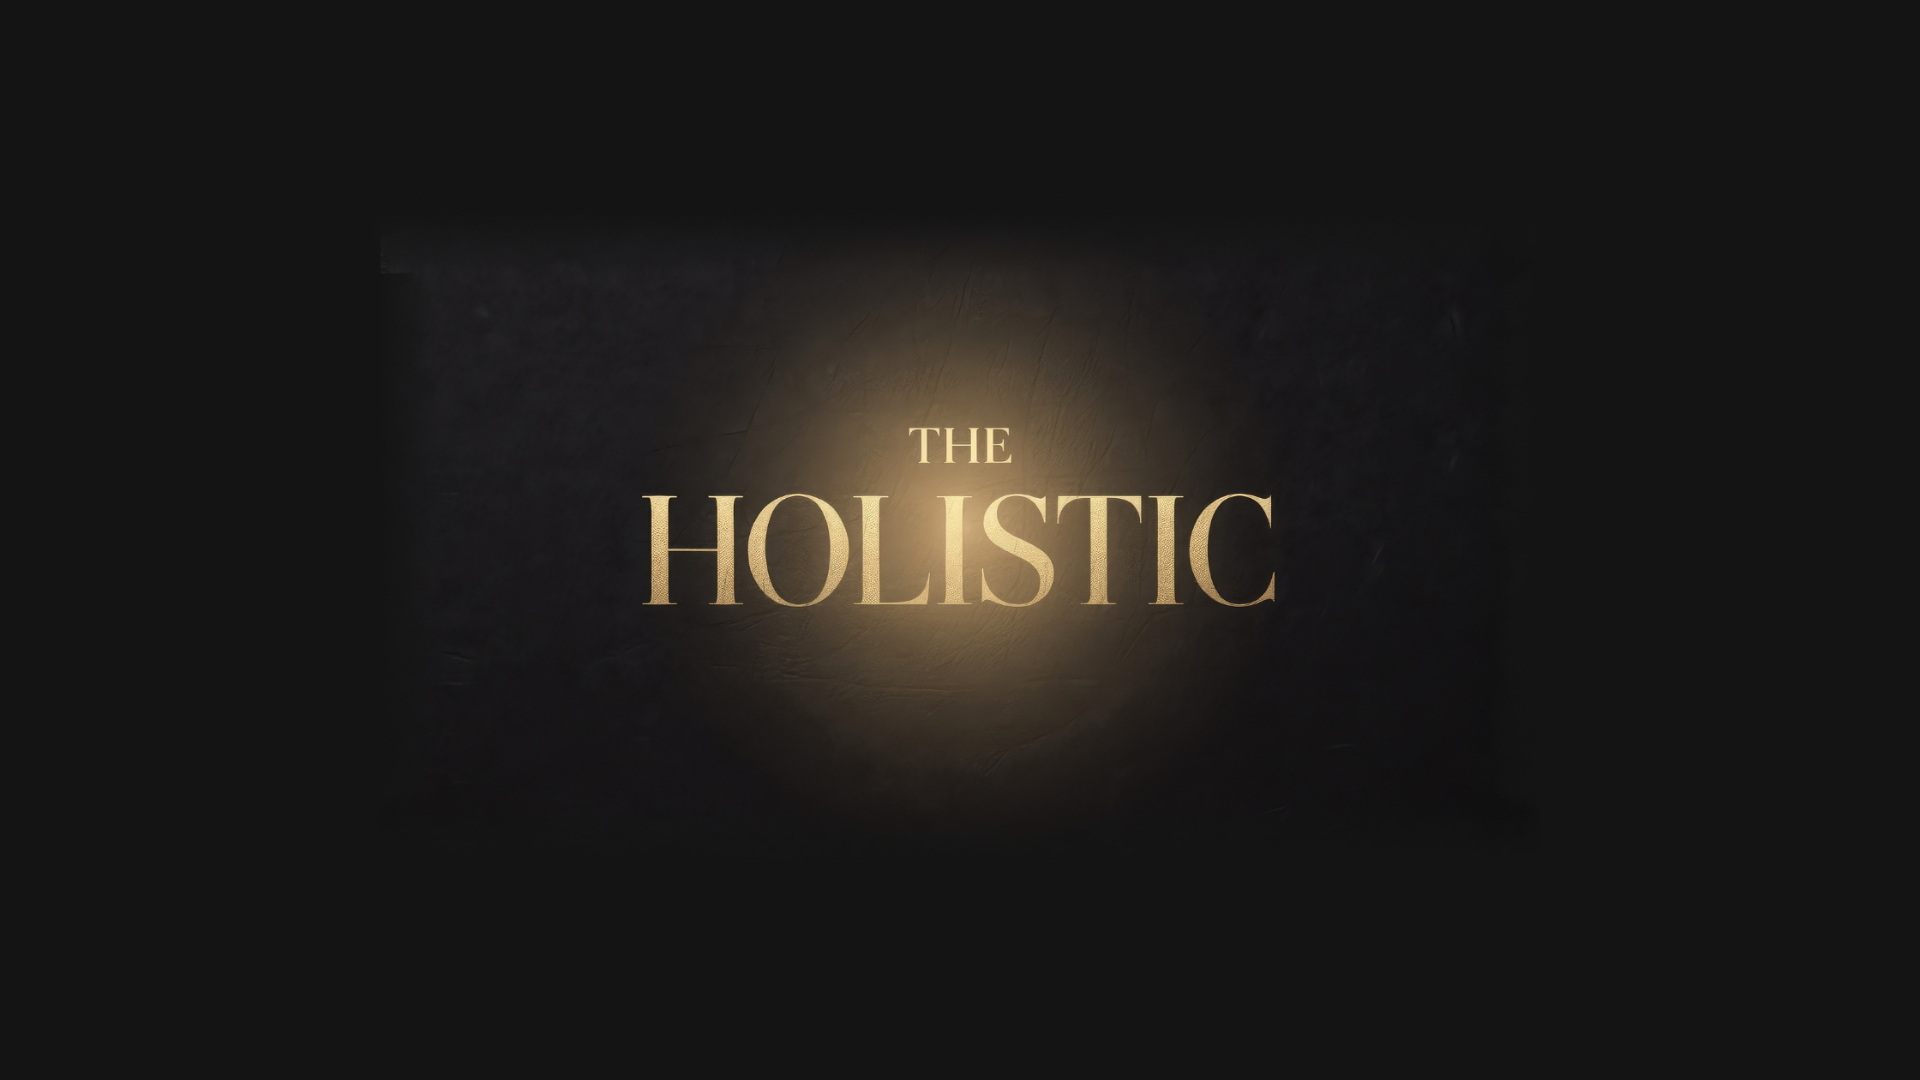
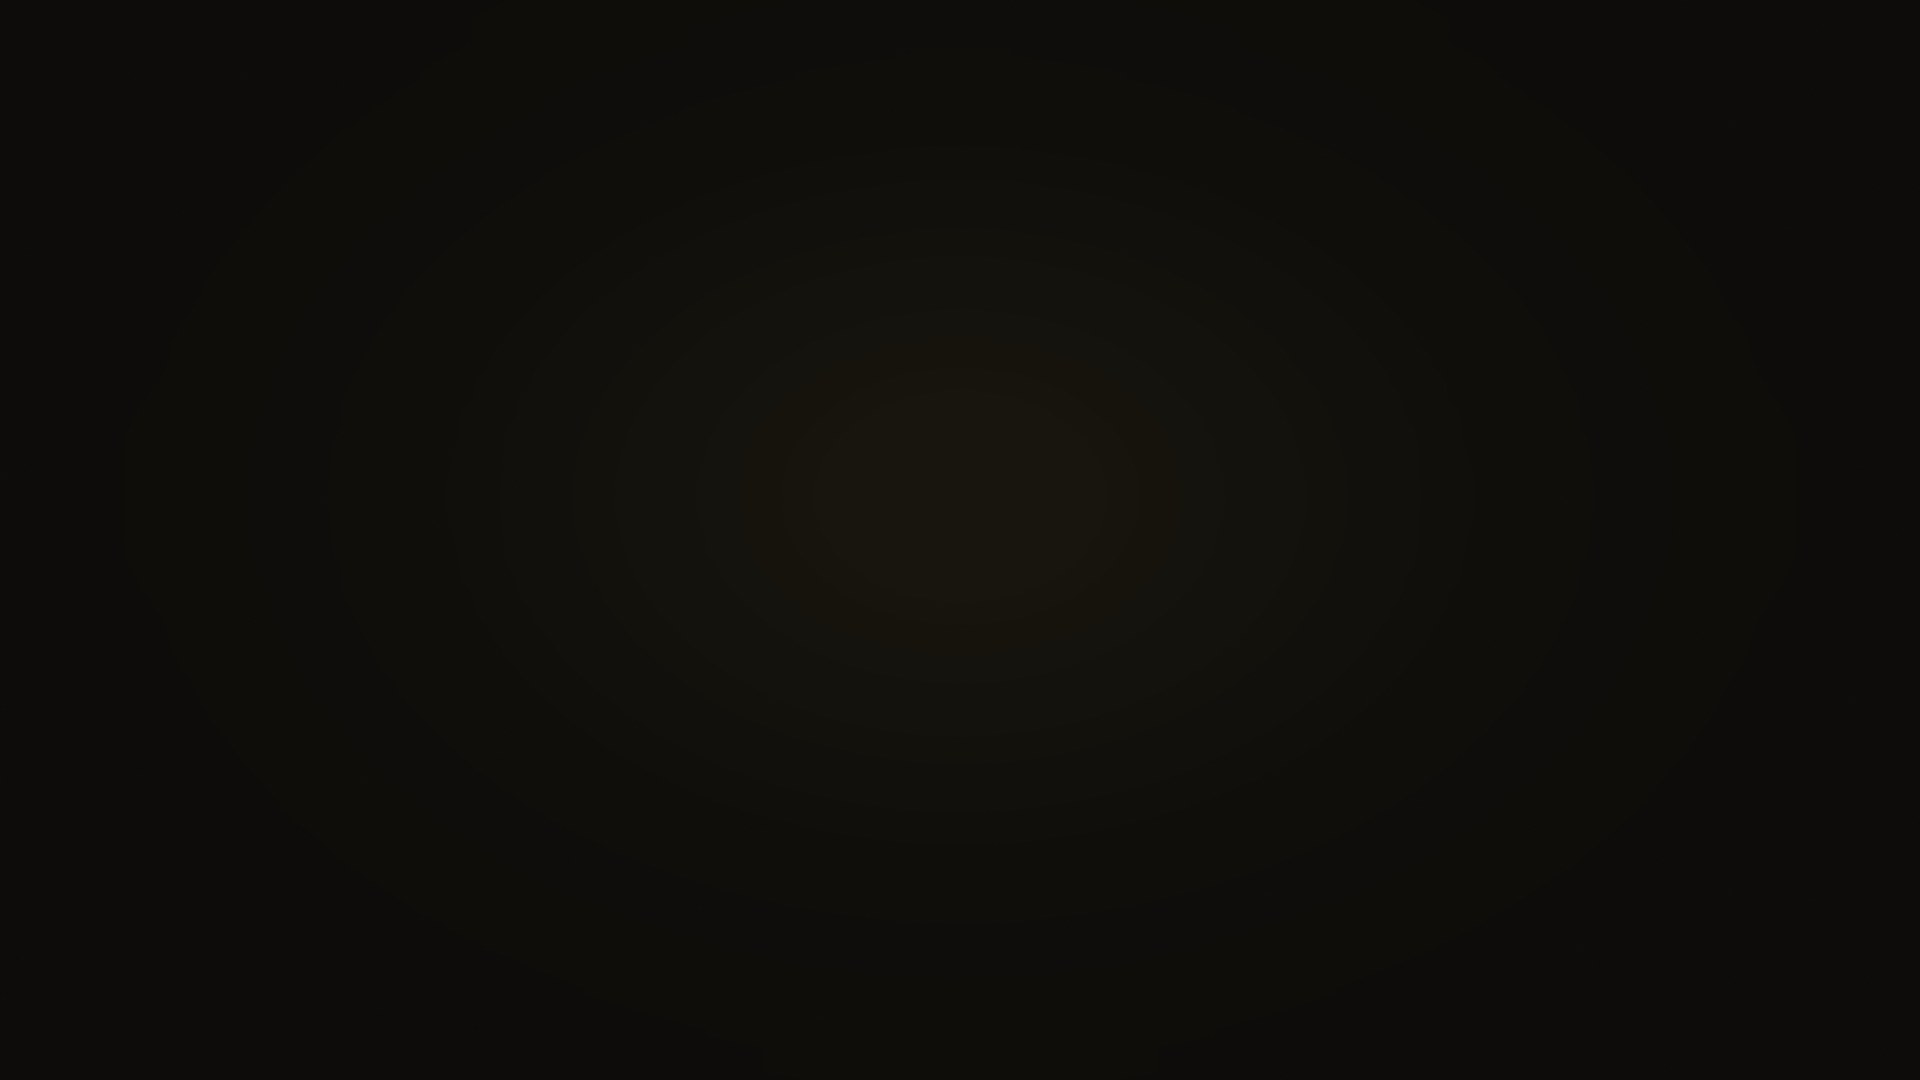
Hero: replace lettered bg with clean text-free atmospheric texture; cover instead of zoom-crop so no wordmark smear on mobile

Changed region(s): [[0.3125, 0.2444, 0.6875, 0.7333]]

diff --git a/style.css b/style.css
@@ -196,15 +196,13 @@
 .hero-image-bg {
   position: absolute;
   inset: 0;
-  /* Zoom in so the branded text in the centre of the image is cropped out;
-     only the dark atmospheric edges and texture remain visible */
+  /* Text-free dark atmospheric texture — covers cleanly on every viewport */
   background-image: url('./hero-bg.jpg');
-  background-size: 320%;
-  background-position: center 95%;
+  background-size: cover;
+  background-position: center;
   background-repeat: no-repeat;
   z-index: 0;
-  opacity: 0.35;
-  filter: brightness(0.6);
+  opacity: 0.6;
 }
 
 /* Overlay — gradient to blend edges cleanly */
